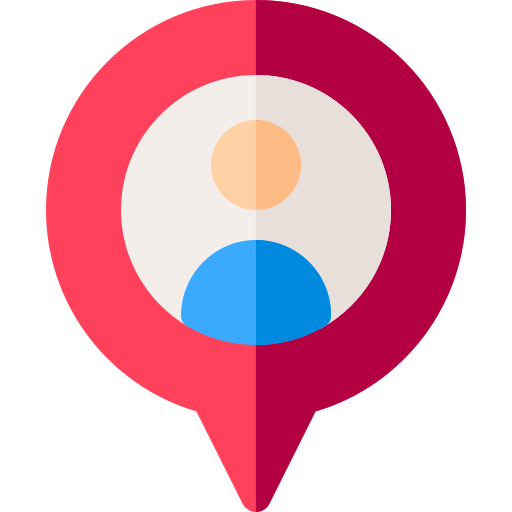
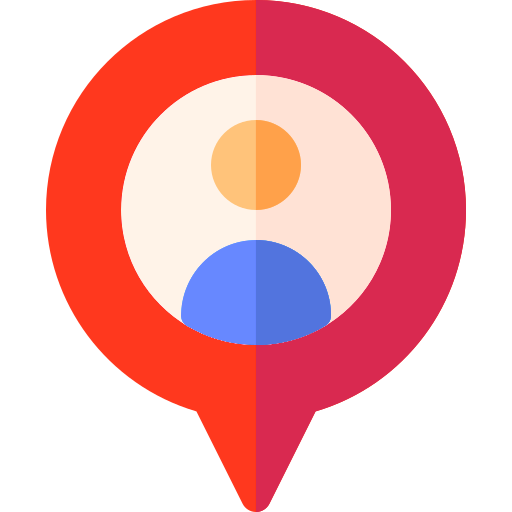
you want it darker

diff --git a/src/strangerMarker.js b/src/strangerMarker.js
@@ -1,7 +1,7 @@
 import L from 'leaflet';
 
 const strangerMarker = new L.Icon({
-    iconUrl: require('./map-marker.png'),
+    iconUrl: require('./map-marker2.png'),
     // shadowUrl: null,
     iconSize: [30, 30],
     // shadowSize: null,
